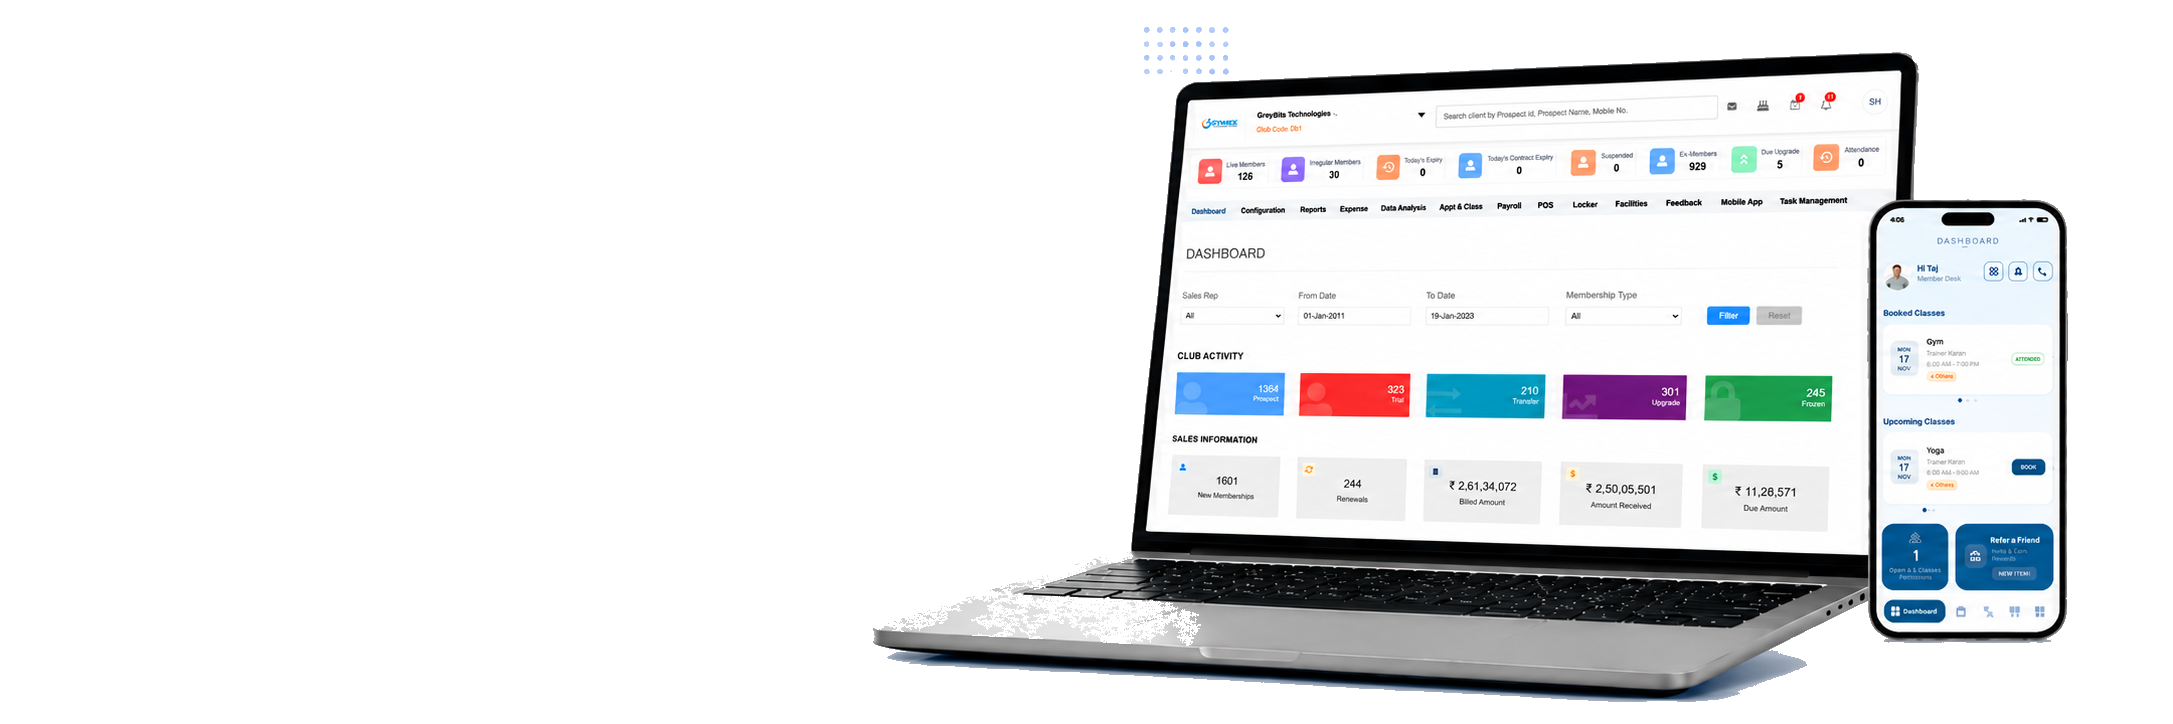
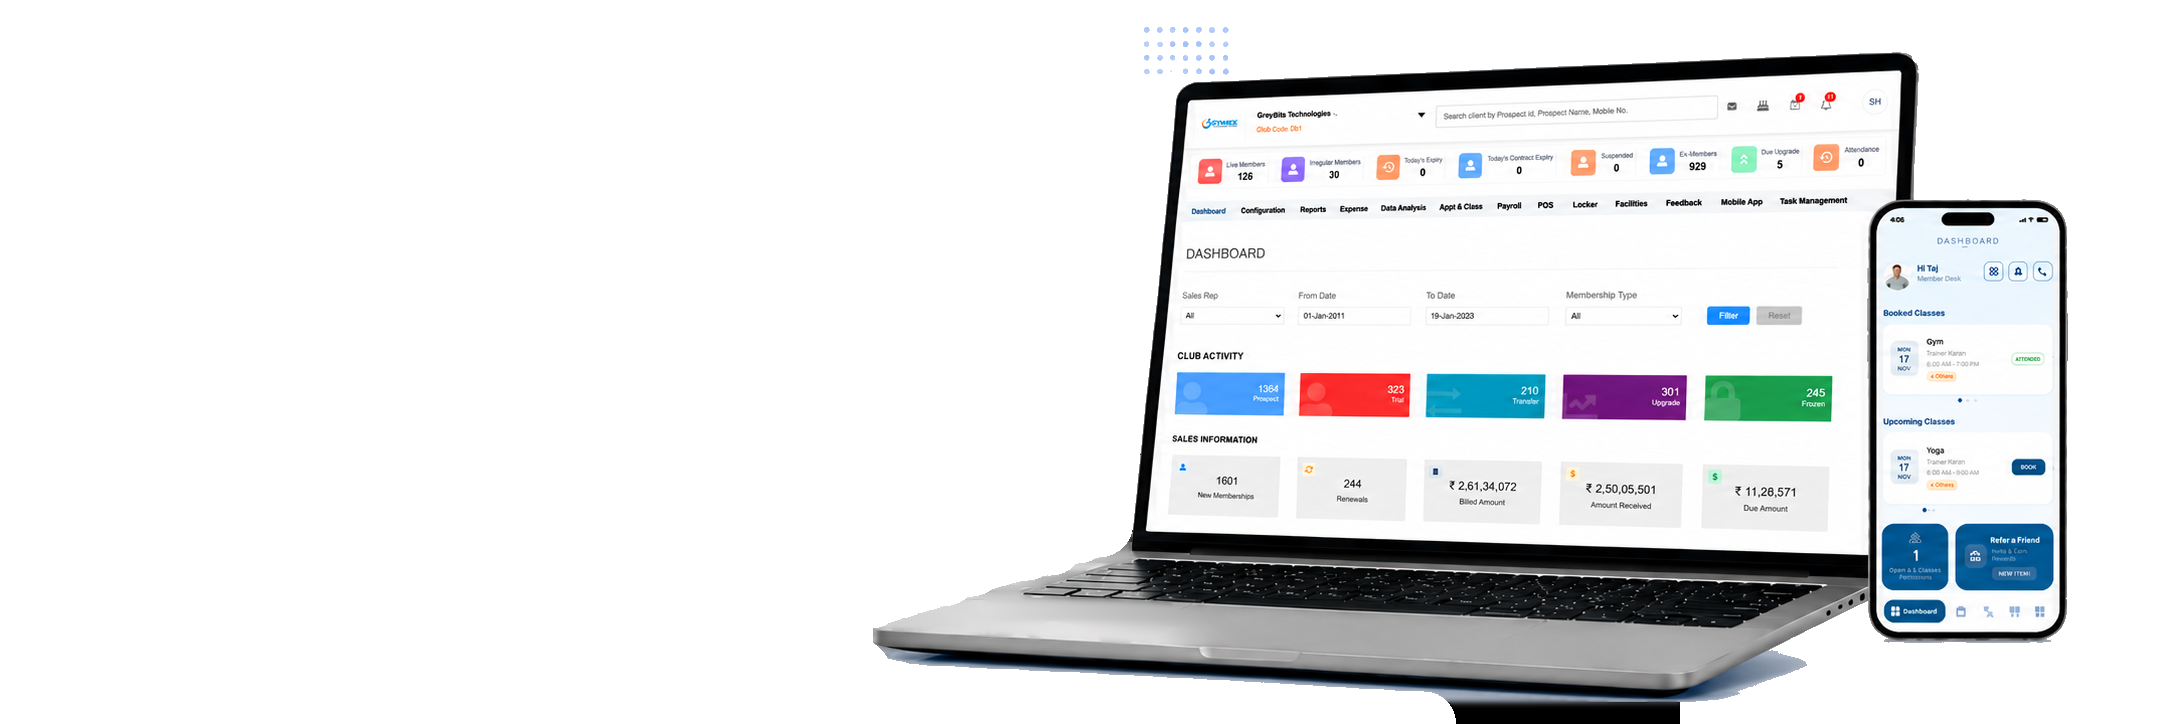
Repair transparent holes in the homepage hero dashboard image

Changed region(s): [[0.4008, 0.7901, 0.555, 0.9116], [0.6475, 0.942, 0.7708, 1.0], [0.4933, 0.7597, 0.5242, 0.7901]]

diff --git a/index/index.html b/index/index.html
@@ -260,7 +260,7 @@ height="0" width="0" style="display:none;visibility:hidden"></iframe></noscript>
               <span><i class="fa fa-check"></i>Built for Gyms</span>
             </div>
           </div>
-          <div class="mm-hero-img-wrap"><img src="../assets/img.png?v=2" alt="Gymex Dashboard"></div>
+          <div class="mm-hero-img-wrap"><img src="../assets/img.png?v=3" alt="Gymex Dashboard"></div>
         </div>
       </header>
 
